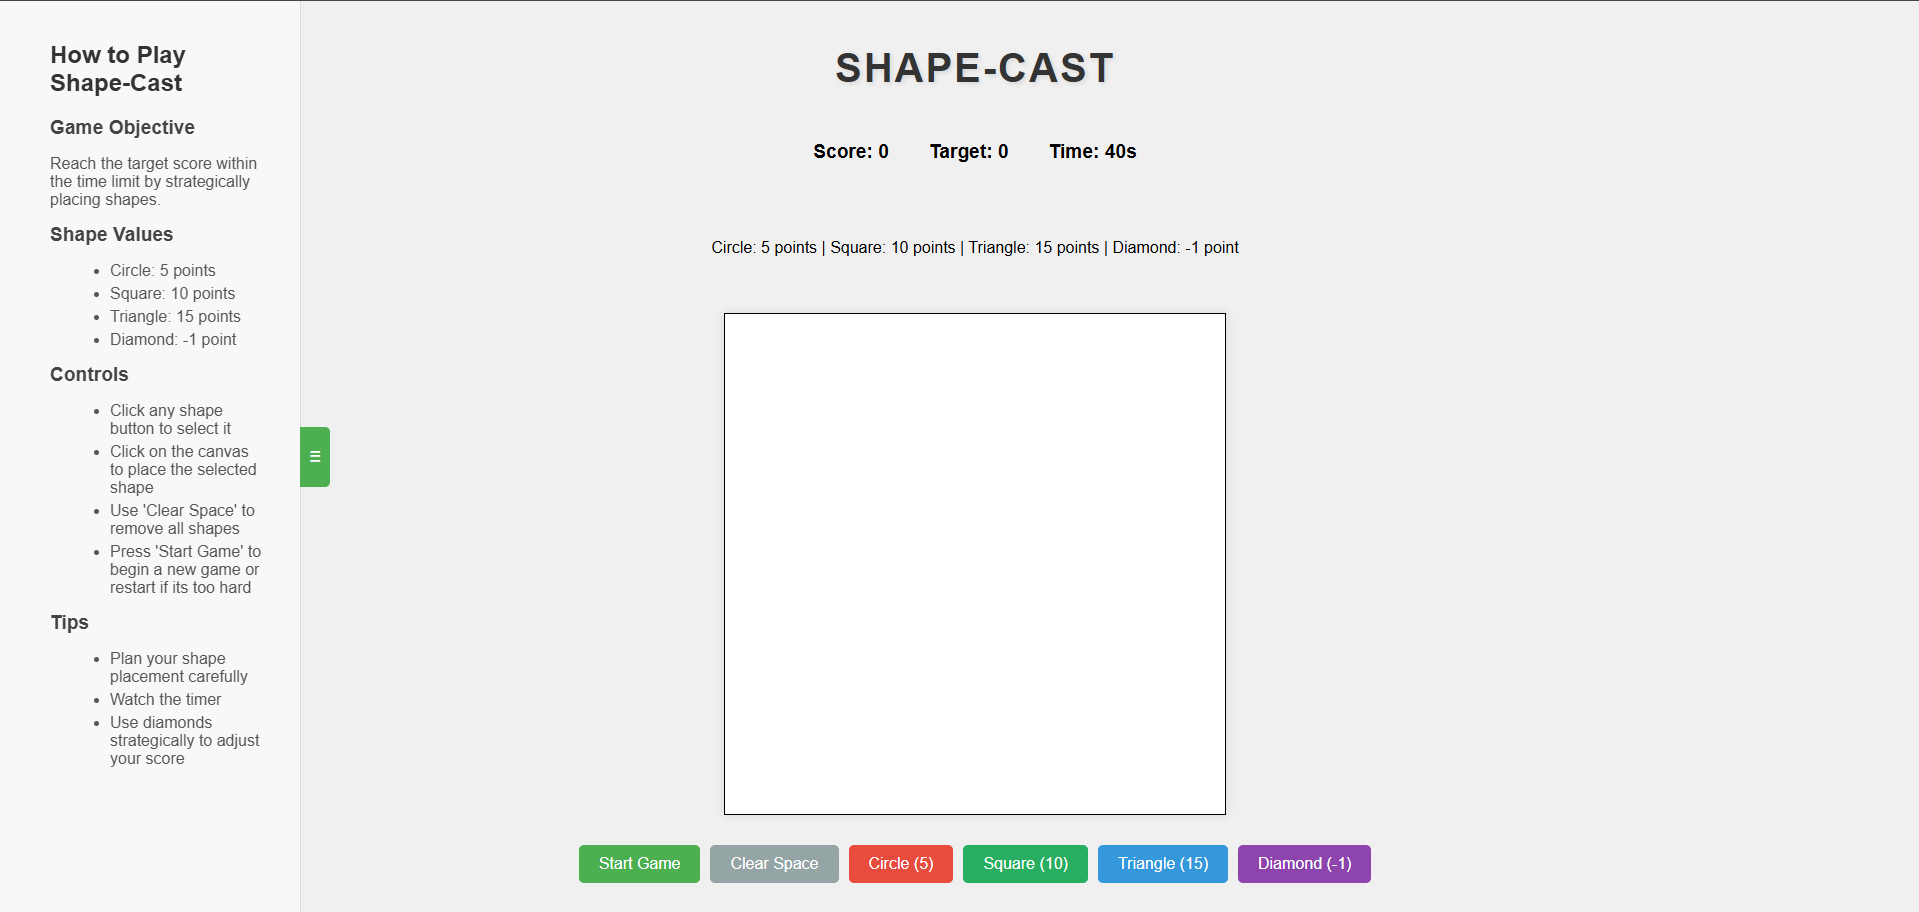
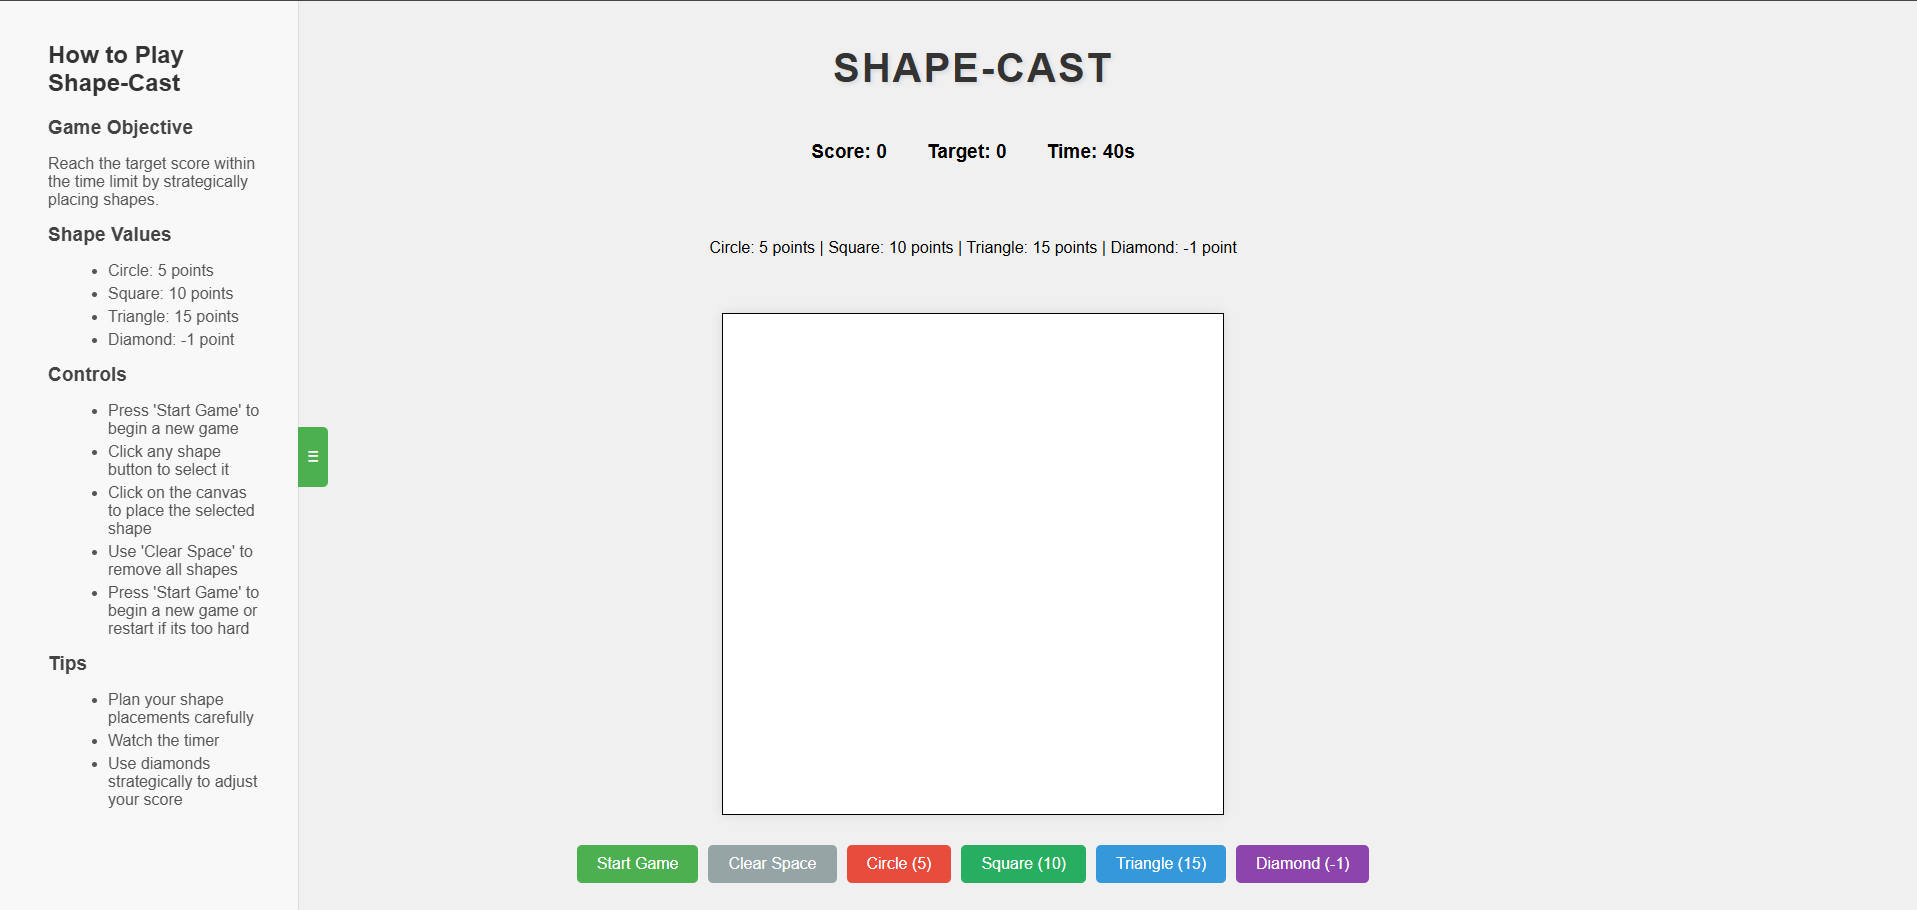
Changes to README

diff --git a/index.html b/index.html
@@ -58,6 +58,8 @@
                     <li>Press 'Start Game' to begin a new game</li>
                     <li>Click any shape button to select it</li>
                     <li>Click on the canvas to place the selected shape</li>
+                    <li>Once you have selected a shape, you do not need to click the same shape button again unless you would like to change the shape.</li>
+                    <li>In other words, you can select a shape once and place it on the canvas as many times as you can and as fast as you can until you need to change the shape.</li>
                     <li>Use 'Clear Space' to remove all shapes</li>
                     <li>Press 'Start Game' to begin a new game or restart if its too hard</li>
                 </ul>

diff --git a/README.md b/README.md
@@ -110,15 +110,27 @@ toggleGuideBtn.onclick = function() {
 ````
 
 ## Game Rules (Also Available In-Game)
-1. Start the game by clicking the "Start Game" button
-2. You have 40 seconds to reach the target score
-3. Click shape buttons below the canvas and click on the canvas to place them
-4. Each shape has a different point value:
-    - Circle: 5 points
-    - Square: 10 points
-    - Triangle: 15 points
-    - Diamond: -1 point (strategic negative point element)
-5. Use the "Clear Space" button to reset the canvas
+1. Game Objective: Reach the target score within the time limit by strategically placing shapes.
+
+2. Shape Values:
+   Circle: 5 points
+   Square: 10 points
+   Triangle: 15 points
+   Diamond: -1 point
+
+3. Controls:
+   - Press 'Start Game' to begin a new game 
+   - Click any shape button to select it</li>
+   - Click on the canvas to place the selected shape</li>
+   - Once you have selected a shape, you do not need to click the same shape button again unless you would like to change the shape.</li>
+   - In other words, you can select a shape once and place it on the canvas as many times as you can and as fast as you can until you need to change the shape.</li>
+   - Use 'Clear Space' to remove all shapes</li>
+   - Press 'Start Game' to begin a new game or restart if its too hard</li>
+
+4. Tips
+   - Plan your shape placements carefully
+   - Watch the timer
+   - Use diamonds strategically to adjust your score</li>
 
 ## License
 MIT
